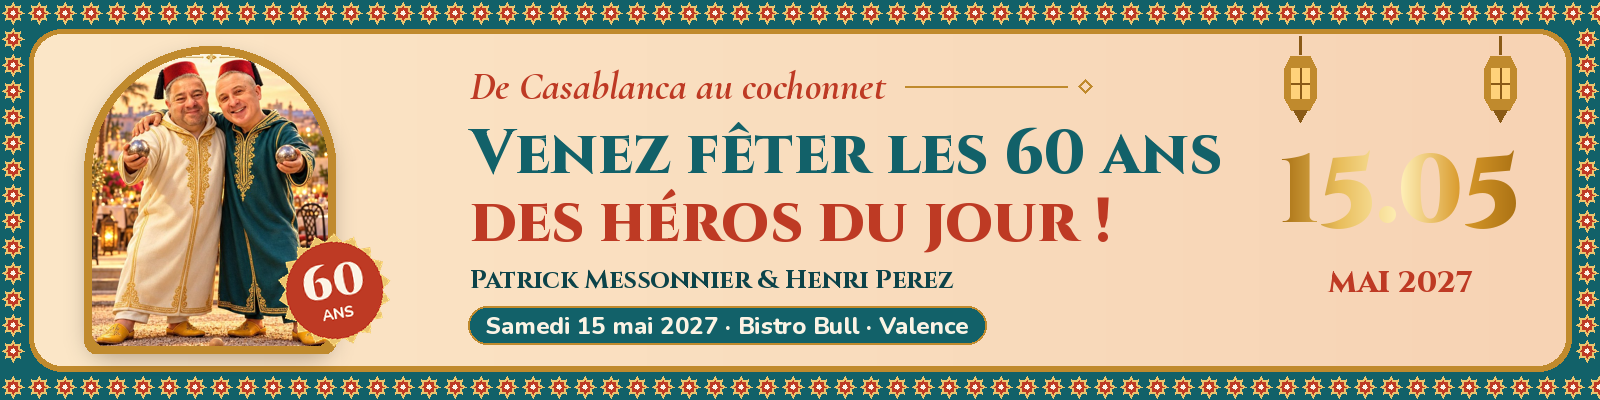
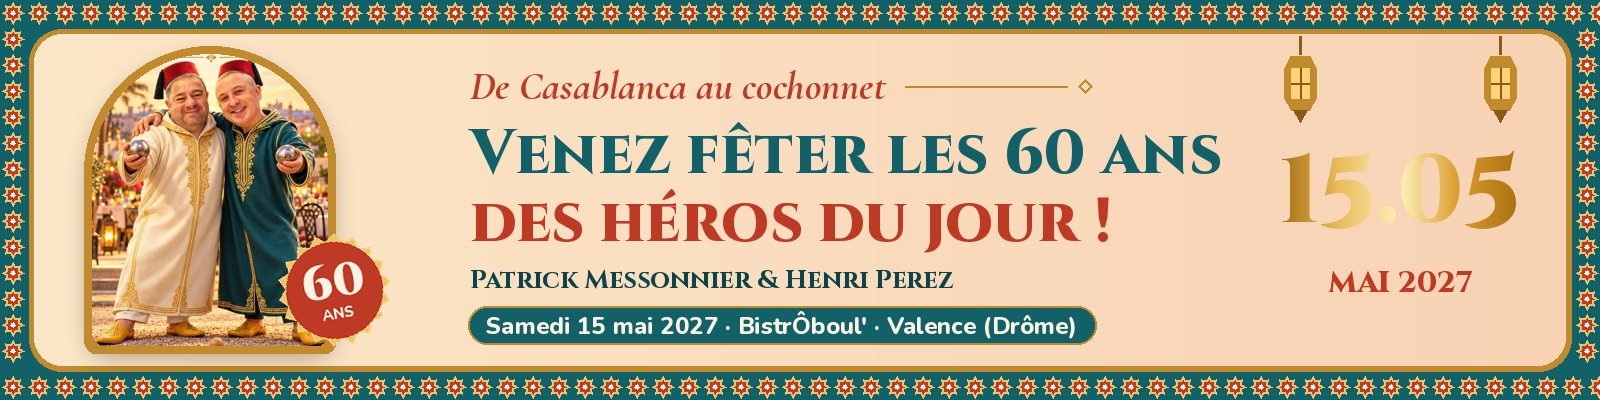
Corrige le lieu : Ô2b BistrÔboul', Saint-Marcel-lès-Valence
Claude-Session: https://claude.ai/code/session_01FokGjSqUkGYbCKC1b9Y5Uv

Changed region(s): [[0.5, 0.75, 0.6875, 0.87]]

diff --git a/index.html b/index.html
@@ -4,7 +4,7 @@
 <meta charset="utf-8">
 <meta name="viewport" content="width=device-width, initial-scale=1, viewport-fit=cover">
 <title>De Casablanca au cochonnet</title>
-<meta name="description" content="Patrick Messonnier et Henri Perez fêtent leurs 60 ans : samedi 15 mai 2027 au Bistro Bull, à Valence. Tournoi, babouches et pétanque party.">
+<meta name="description" content="Patrick Messonnier et Henri Perez fêtent leurs 60 ans : samedi 15 mai 2027 au BistrÔboul', à Saint-Marcel-lès-Valence (Drôme). Tournoi, babouches et pétanque party.">
 <link rel="preconnect" href="https://fonts.googleapis.com">
 <link rel="preconnect" href="https://fonts.gstatic.com" crossorigin>
 <link href="https://fonts.googleapis.com/css2?family=Cinzel:wght@600;700;800;900&family=Cormorant+Garamond:ital,wght@1,600;1,700&family=Nunito:wght@400;600;700;800&display=swap" rel="stylesheet">
@@ -332,7 +332,7 @@ footer .script{font-size:1.9rem;color:var(--fez);margin-bottom:6px;display:block
         <p class="confirmes"><b id="nb-confirmes">4</b> participants déjà confirmés · <a href="#invites">voir qui vient</a></p>
         <div class="chips">
           <span class="chip"><b>Samedi</b> 15 mai 2027</span>
-          <span class="chip"><b>Bistro Bull</b> · Valence</span>
+          <span class="chip"><b>BistrÔboul'</b> · Valence (Drôme)</span>
           <span class="chip">Tournoi · Babouches · <b>Pétanque party</b></span>
         </div>
         <div class="cta">
@@ -433,7 +433,7 @@ footer .script{font-size:1.9rem;color:var(--fez);margin-bottom:6px;display:block
       <div class="infos">
         <div class="info">
           <h3>Le lieu</h3>
-          <p id="venue-text">Bistro Bull, à Valence (Drôme).</p>
+          <p id="venue-text">Ô2b BistrÔboul', 130 allée de Ponsoyes, 26320 Saint-Marcel-lès-Valence.</p>
           <a class="btn btn-ghost" id="map-link" target="_blank" rel="noopener" hidden>Ouvrir dans Maps</a>
         </div>
         <div class="info">
@@ -552,7 +552,7 @@ footer .script{font-size:1.9rem;color:var(--fez);margin-bottom:6px;display:block
 <footer>
   <div class="wrap">
     <span class="script">Deux amis, deux cœurs, une même joie de vivre !</span>
-    <p>Samedi 15 mai 2027 · Bistro Bull · Valence</p>
+    <p>Samedi 15 mai 2027 · Ô2b BistrÔboul' · Saint-Marcel-lès-Valence (Drôme)</p>
     <p style="margin-top:6px">Pour toute information : Henri Perez <a href="tel:+33631042042" style="color:var(--fez);font-weight:800">06 31 04 20 42</a> · Patrick Messonnier (numéro à venir)</p>
   </div>
 </footer>
@@ -576,9 +576,9 @@ footer .script{font-size:1.9rem;color:var(--fez);margin-bottom:6px;display:block
 /* ===== CONFIGURATION — à modifier ===== */
 const CONFIG = {
   host: "Patrick et Henri",
-  venue: "Bistro Bull",
-  city: "Valence",
-  address: "",                 // ex : "12 rue …, 26000 Valence" (affiche le bouton Maps ; l'adresse devient publique)
+  venue: "Ô2b BistrÔboul'",
+  city: "Saint-Marcel-lès-Valence",
+  address: "130 allée de Ponsoyes, 26320 Saint-Marcel-lès-Valence",   // affiche le bouton Maps
   start: "2027-05-15T10:00:00+02:00",
   startUTC: "20270515T080000Z",
   endUTC: "20270515T230000Z",
@@ -713,7 +713,7 @@ document.querySelectorAll(".js-form-link").forEach(a=>{
 
 /* ===== Lieu ===== */
 if (CONFIG.address){
-  document.getElementById("venue-text").textContent = CONFIG.venue + ", " + CONFIG.address + ".";
+  document.getElementById("venue-text").innerHTML = esc(CONFIG.venue) + ", " + esc(CONFIG.address) + ".<br>Établissement de pétanque, juste à côté de Valence (Drôme). Tél. 07 56 43 33 25.";
   const m = document.getElementById("map-link");
   m.href = "https://www.google.com/maps/search/?api=1&query=" + encodeURIComponent(CONFIG.venue + " " + CONFIG.address);
   m.hidden = false;
@@ -826,7 +826,7 @@ function openInvite(id){
   if (g.hote){
     tete = `<small>Héros du jour · 60 ans</small><h2>${esc(g.hote.full)}</h2>`;
     citation = esc(g.hote.mot);
-    corps = `<p>Rendez-vous le ${CONFIG.dateTexte} au ${lieu} pour fêter nos 60 ans : tournoi des babouches, apéro marocain et couscous géant.</p>`;
+    corps = `<p>Rendez-vous le ${CONFIG.dateTexte} au ${lieu} pour fêter nos 60 ans : pétanque ou visite le matin, déjeuner, puis soirée inoubliable.</p>`;
   } else {
     tete = `<small>Ta réponse · ${LABEL[g.status] || "Invitation"}</small><h2>${g.status==="non" ? "Dommage, " + esc(g.first) + " !" : "Merci " + esc(g.first) + " !"}</h2>`;
     citation = g.status==="non" ? "On pensera à toi le 15 mai." : g.status==="peut-etre" ? "On croise les doigts pour que tu puisses venir !" : "Ta place est réservée, on a hâte de te voir sur le terrain.";
